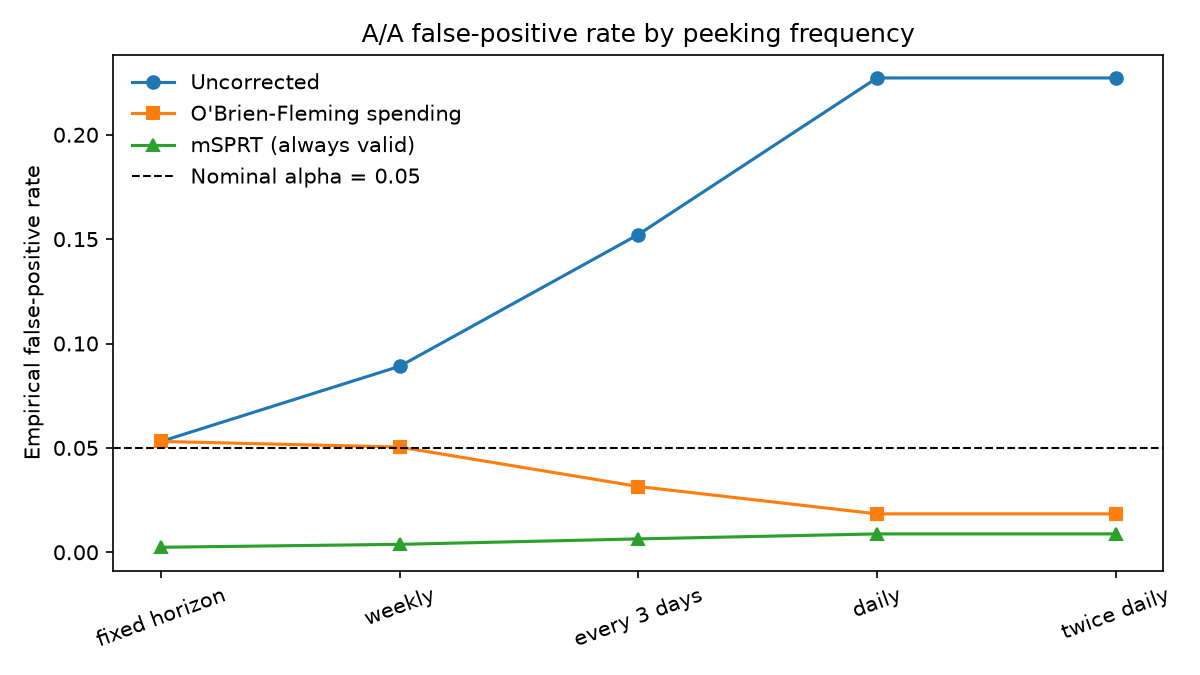
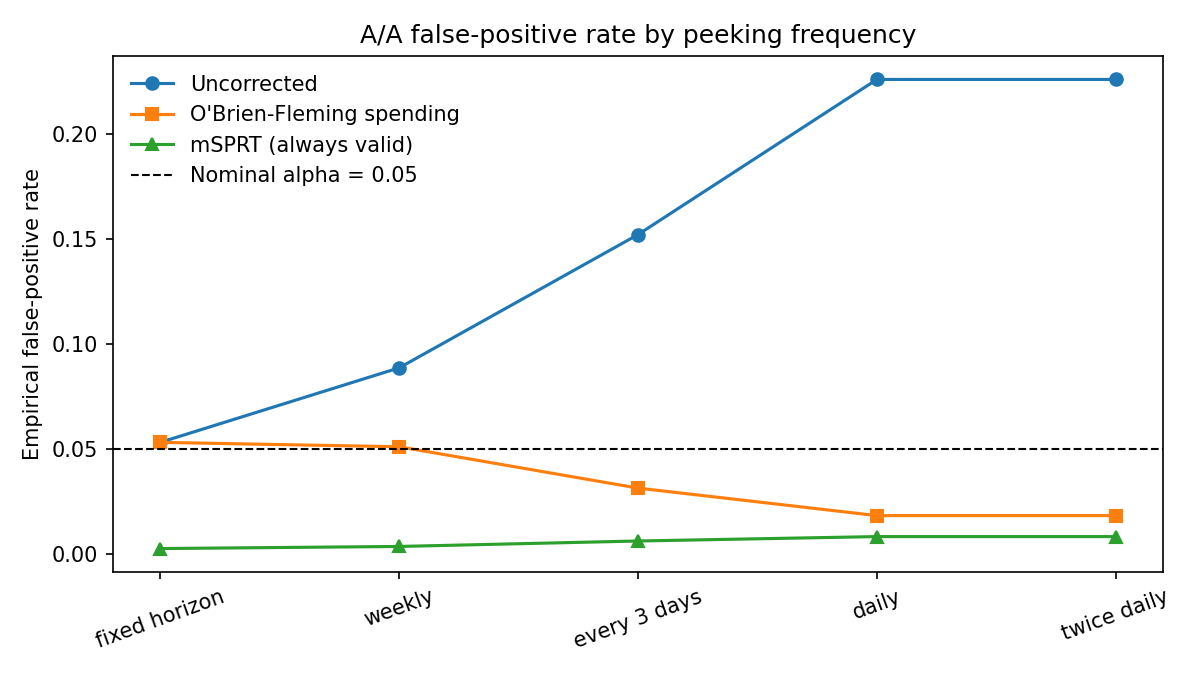
Recalibrate on clean window; November add_to_cart instrumentation break

diff --git a/config.py b/config.py
@@ -89,6 +89,27 @@ CHANGELOG_CONFIG = [
                    "observing part D, so recorded separately from the P1-P7 "
                    "block and labelled post hoc rather than pre-registered. "
                    "See PREREG_M2 Amendment 2."),
+    ("2026-08-15", "WINDOW AMENDMENT. Calibration re-measured on the clean "
+                   "window (2020-12-01 to 2021-01-31, 62 days). The full "
+                   "92-day window is contaminated: add_to_cart did not fire "
+                   "reliably in November 2020 (66% of November purchases have "
+                   "no cart event vs 17% after; device-uniform step change at "
+                   "the month boundary). Found by a month-by-device split in "
+                   "the companion repo; see ga4-product-analytics/docs/"
+                   "instrumentation_break.md. Effect: add_to_cart rate "
+                   "0.0674 -> 0.0516 (-23.5%), purchase rate 0.01346 -> "
+                   "0.01281, daily users 3469 -> 3632, sessions/user 1.333 -> "
+                   "1.288, dispersion 0.754 -> 0.626. Both ICCs moved LESS "
+                   "than one SE (+0.188 -> +0.192; +0.039 -> +0.031), "
+                   "confirming within-user correlation is robust to a level "
+                   "shift while the rate is not. No M3 conclusion changes. "
+                   "Amended because a known-contaminated rate should not sit "
+                   "in a calibration file. Pooled values retained under "
+                   "window_audit. NOTE: the prediction that removing November "
+                   "would RAISE the cart rate was wrong -- it fell, because "
+                   "the restricted window also drops November's session "
+                   "denominator. Recorded because the direction of a "
+                   "pooling bias is easy to assert and hard to intuit."),
     ("2026-08-15", "BUGFIX in sim/dgp.py ratio_metric_panel. Both session-"
                    "count branches drew with mean sessions_mean and then "
                    "added 1, giving a realized mean of sessions_mean + 1. "

diff --git a/tests/test_estimators.py b/tests/test_estimators.py
@@ -296,7 +296,7 @@ def test_stratified_icc_is_unbiased_under_the_same_structure():
 def test_calibrated_iccs_are_positive_and_ordered():
     assert cfg.OBSERVED_ICC > cfg.CONTRAST_METRIC_ICC > 0
     audit = cfg.OBSERVED["icc_estimator_audit"]
-    assert audit["purchase"]["anova_fleiss_cuzick"] < 0 < \
+    assert audit["purchase"]["anova_fleiss_cuzick_pooled_window"] < 0 < \
         audit["purchase"]["pooled"], "the sign flip must stay on the record"
 
 
@@ -377,3 +377,27 @@ def test_contamination_leaves_variance_reduction_intact():
                           np.var(d["y"][keep], ddof=1))
     assert abs(reductions[0] - reductions[1]) < 0.01, \
         "contamination should not show up in the variance reduction"
+
+
+
+def test_window_audit_is_present_and_honest():
+    """The contaminated pooled-window values must stay on the record.
+
+    The calibration was re-measured on 2020-12-01 onward after an add_to_cart
+    instrumentation break was found in November 2020. Keeping only the
+    corrected numbers would make the file look like it was right the first
+    time.
+    """
+    audit = cfg.OBSERVED["window_audit"]
+    pooled = audit["pooled_window_values"]
+
+    assert cfg.OBSERVED["window"]["start"] == "2020-12-01"
+    assert pooled["window"].startswith("2020-11-01")
+
+    # the cart rate is the quantity the break contaminated
+    assert pooled["primary_metric_rate"] > cfg.PRIMARY_METRIC_RATE, \
+        "the restriction lowered the cart rate; if that reverses, re-check"
+
+    # both ICCs should have moved less than a standard error (~0.008)
+    assert abs(pooled["session_conversion_icc"] - cfg.OBSERVED_ICC) < 0.02
+    assert abs(pooled["contrast_metric_icc"] - cfg.CONTRAST_METRIC_ICC) < 0.02

diff --git a/README.md b/README.md
@@ -58,10 +58,17 @@ conditions on the actual session distribution — which matters, because ρ
 demonstrably varies with engagement depth for one of the two metrics
 (purchase: +0.032 → +0.047 across n = 2, 3, 4).
 
-**Registered after correction:** `add_to_cart` ρ = +0.188 (flat across strata),
-design effect 1.357, naive SE **16.5% too narrow**. `purchase` ρ = +0.039,
-design effect 1.074, naive SE **3.6% too narrow**. Both cluster positively; the
-contrast is a 4.5× gap in magnitude on the same users.
+**Registered after correction:** `add_to_cart` ρ = +0.192 (flat across strata),
+design effect 1.365, naive SE **17.0% too narrow**. `purchase` ρ = +0.031,
+design effect 1.059, naive SE **2.9% too narrow**. Both cluster positively; the
+contrast is a 6× gap in magnitude on the same users.
+
+**A level shift moves a rate and leaves a correlation alone.** Re-measuring on
+the clean window changed the `add_to_cart` rate by −23.5% but moved both ICCs
+by less than one standard error (+0.188 → +0.192, +0.039 → +0.031). Within-user
+correlation turns out to be robust to instrumentation breaks in a way that
+levels are not — useful to know before deciding which historical numbers a
+calibration can safely reuse.
 
 **Both corrections work, and both are expensive.** O'Brien–Fleming alpha
 spending held the false-positive rate at or below nominal under every schedule
@@ -78,9 +85,9 @@ showed power peaks near 20% of baseline and falls off in both directions, while
 until it worked" and "the method is robust" are different claims.
 
 **The naive session-level standard error loses coverage exactly where it
-matters.** At `add_to_cart`'s calibrated ICC of +0.188, A/A coverage of the
-nominal 95% CI falls to 91.5% and Type I error runs at 8.5% — the delta method
-holds 94.8%. At ICC = 0.5 naive coverage drops to 88.7%. Adding a correlation
+matters.** At `add_to_cart`'s calibrated ICC of +0.192, A/A coverage of the
+nominal 95% CI falls to 93.0% and Type I error runs at 7.0% — the delta method
+holds 94.7%. At ICC = 0.5 naive coverage drops to 90.3%. Adding a correlation
 between a user's session count and their conversion propensity makes it worse
 still: 82.5% coverage at ICC = 0.5, a Type I error of 17.5%.
 
@@ -111,14 +118,21 @@ GA4-calibrated baseline (1.35% session conversion, 3,469 daily users).*
 
 | Parameter | Placeholder | Measured on GA4 |
 |---|---|---|
-| Session conversion (all sessions) | 0.0200 | **0.0135** |
-| Daily users | 4,000 | **3,469** |
-| Sessions per user | 1.60 | **1.33** |
-| Count dispersion (var/mean) | 1.20 | **0.75** (underdispersed) |
+| Session conversion (all sessions) | 0.0200 | **0.0128** |
+| Daily users | 4,000 | **3,632** |
+| Sessions per user | 1.60 | **1.29** |
+| Count dispersion (var/mean) | 1.20 | **0.63** (underdispersed) |
 | CUPED ρ | 0.40 | **0.19** |
 | Users with no pre-period | — | **96.6%** |
-| ICC, `add_to_cart`/session | 0.10 | **+0.188** (ANOVA said +0.126) |
-| ICC, `purchase`/session | — | **+0.039** (ANOVA said −0.039) |
+| `add_to_cart` rate | — | **0.0516** |
+| ICC, `add_to_cart`/session | 0.10 | **+0.192** (ANOVA said +0.126) |
+| ICC, `purchase`/session | — | **+0.031** (ANOVA said −0.039) |
+
+Measured on the **clean window**, 2020-12-01 to 2021-01-31. The full 92-day
+window is contaminated — `add_to_cart` did not fire reliably in November 2020,
+and pooling would carry a cart rate 23.5% too high. The break was found by a
+month-by-device split in the companion repo; the pooled values are retained in
+`observed_params.json` under `window_audit` rather than deleted.
 
 At this traffic a two-week 50/50 test detects a **21.8% relative lift** at 80%
 power; four weeks gets to 15.4%. That is the honest answer to "how long should
@@ -197,7 +211,7 @@ python -m sim.run_m3 --calibrated
 | Module | Prediction | Result |
 |---|---|---|
 | M1 P1 | Fixed horizon recovers nominal α | held (0.053) |
-| M1 P2–P3 | FPR rises monotonically; daily > 0.12 | held (0.227) |
+| M1 P2–P3 | FPR rises monotonically; daily > 0.12 | held (0.226) |
 | M1 P4–P5 | Both corrections hold α ≤ 0.05 | held |
 | M1 P6 | Corrections cost power | held (0.24 → 0.21, 0.13) |
 | M2 P1 | Realized reduction tracks 1−ρ² within 2pp | held (max gap 0.0004) |
@@ -234,6 +248,11 @@ python -m sim.run_m3 --calibrated
 - The CUPED coverage result is specific to anonymous, acquisition-heavy
   traffic over a holiday window; it is a claim about this user base, not about
   the method.
+- CUPED's ρ and no-pre-period share are computed from a pre/post split that
+  requires the November data as the pre period, so they are carried over from
+  the pooled window. They derive from event counts rather than `add_to_cart`
+  specifically, so the instrumentation break does not contaminate them — but
+  they are the one pair of parameters not re-measured on the clean window.
 - M3 part A uses 600 replicates per cell, so coverage estimates carry a Monte
   Carlo SE of about 0.9pp. Individual cells move; the monotone trend is the
   result, not any single number.
